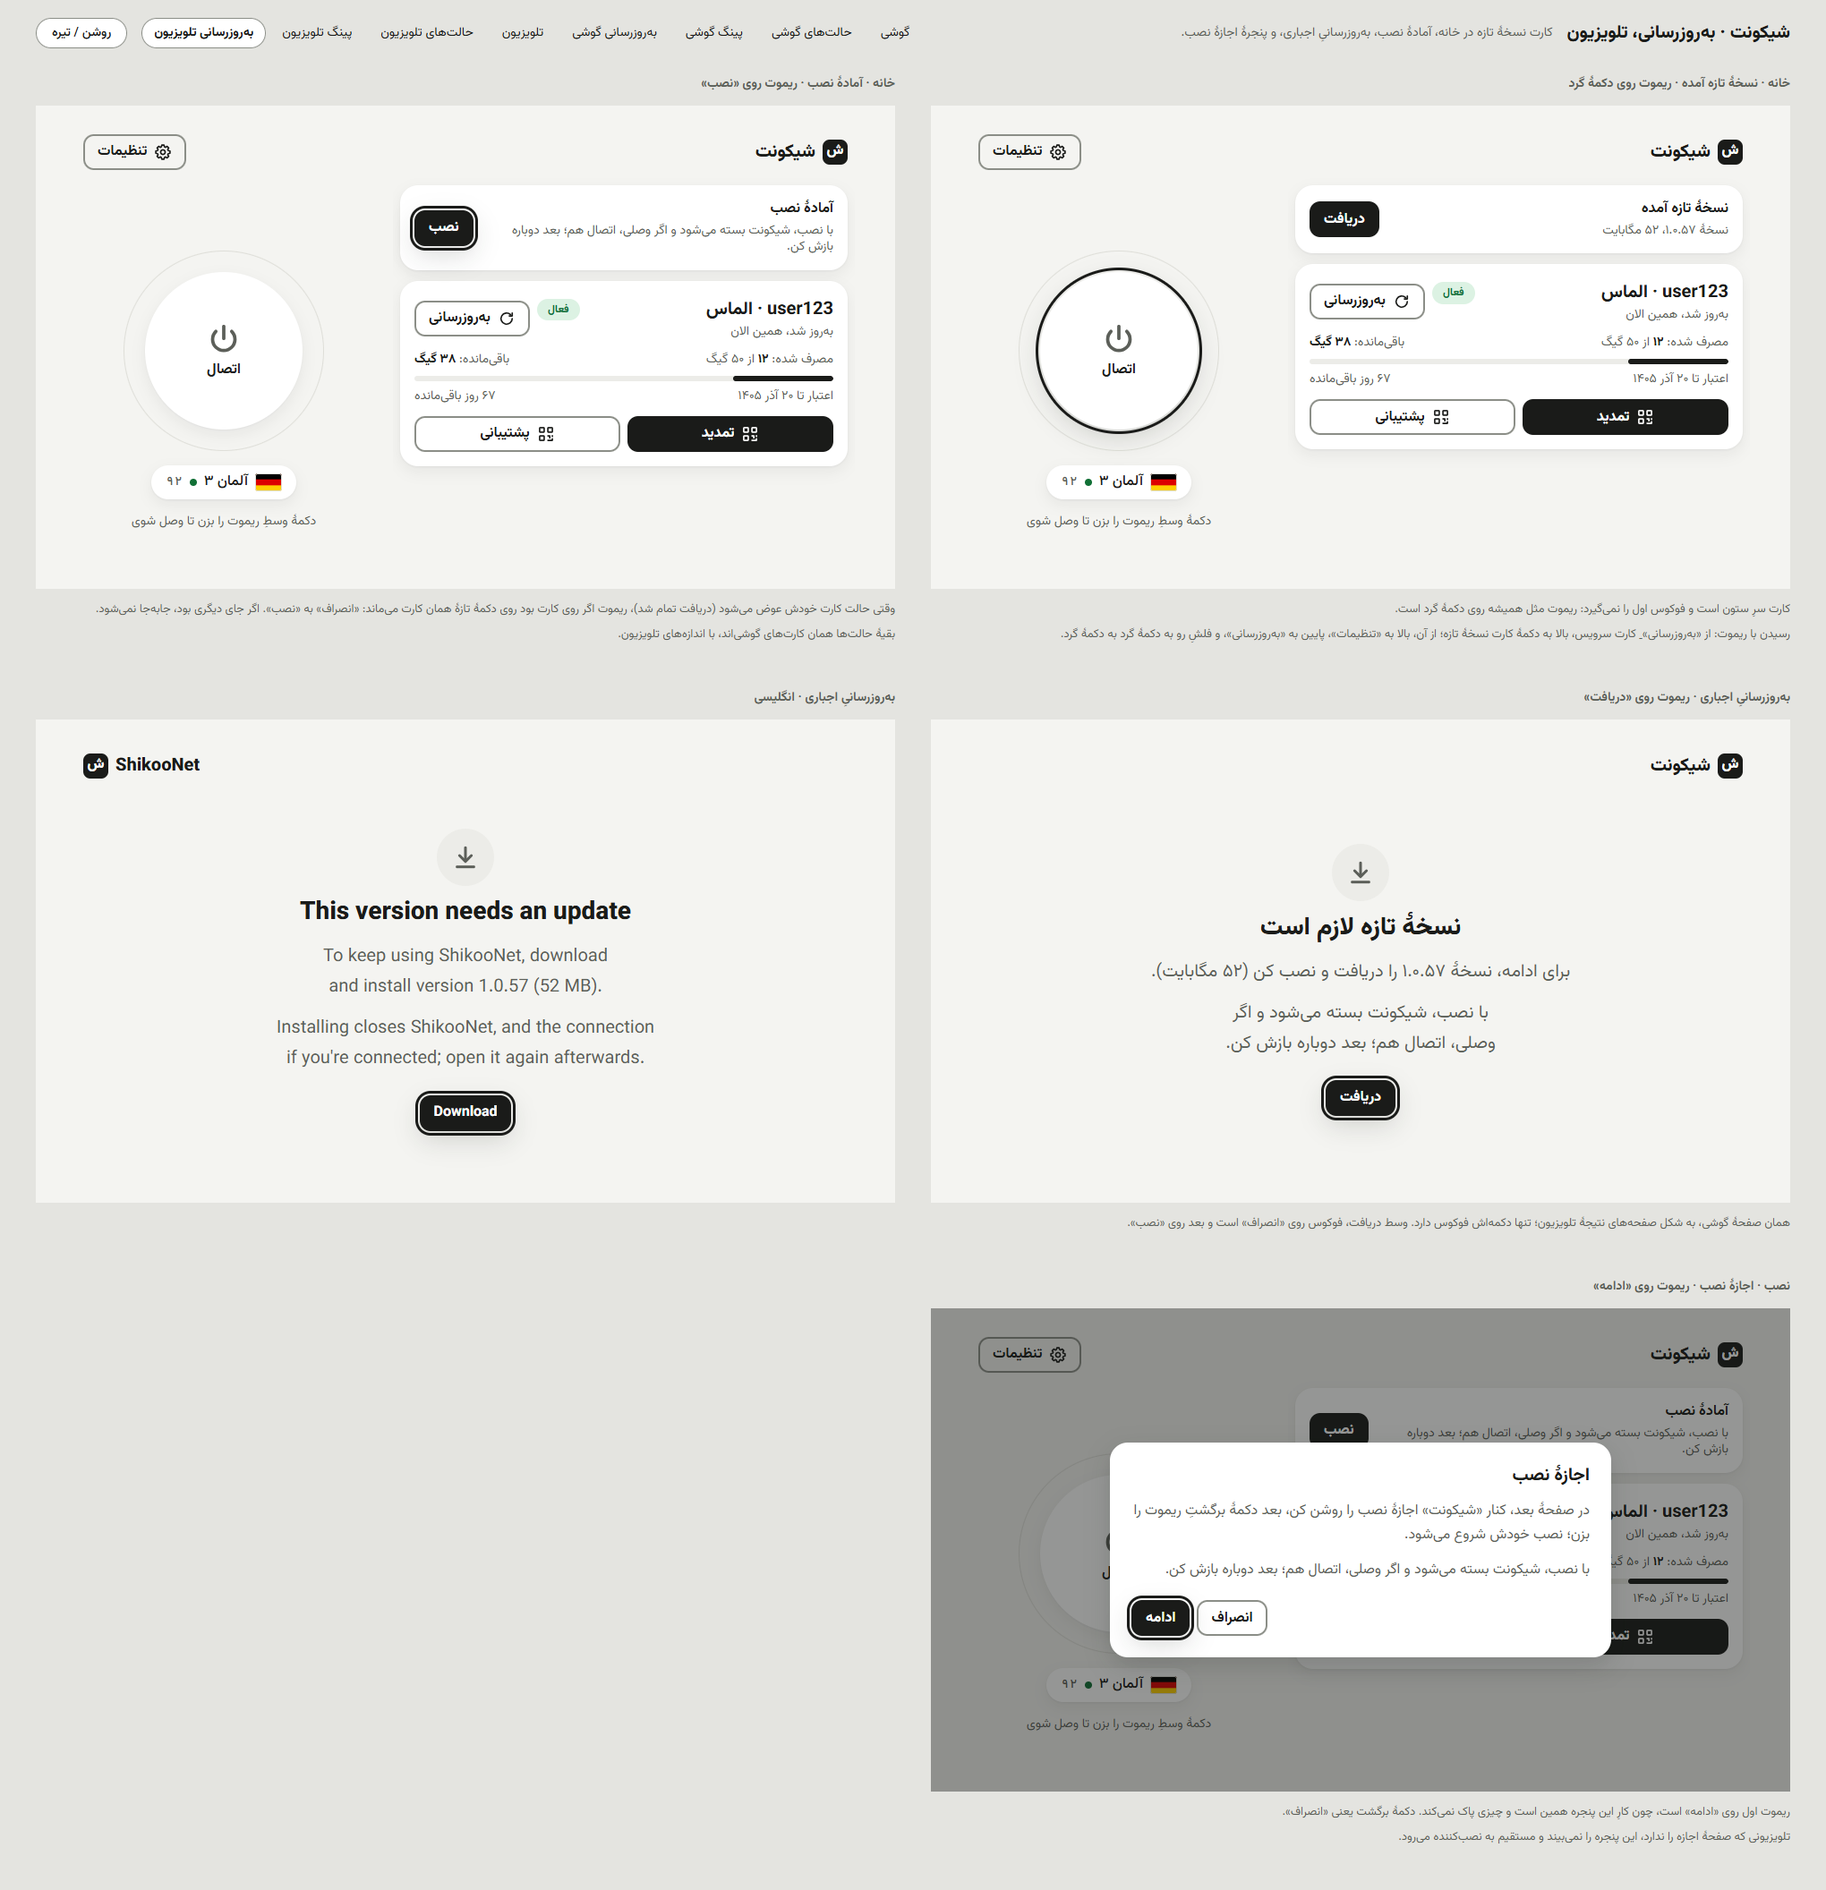
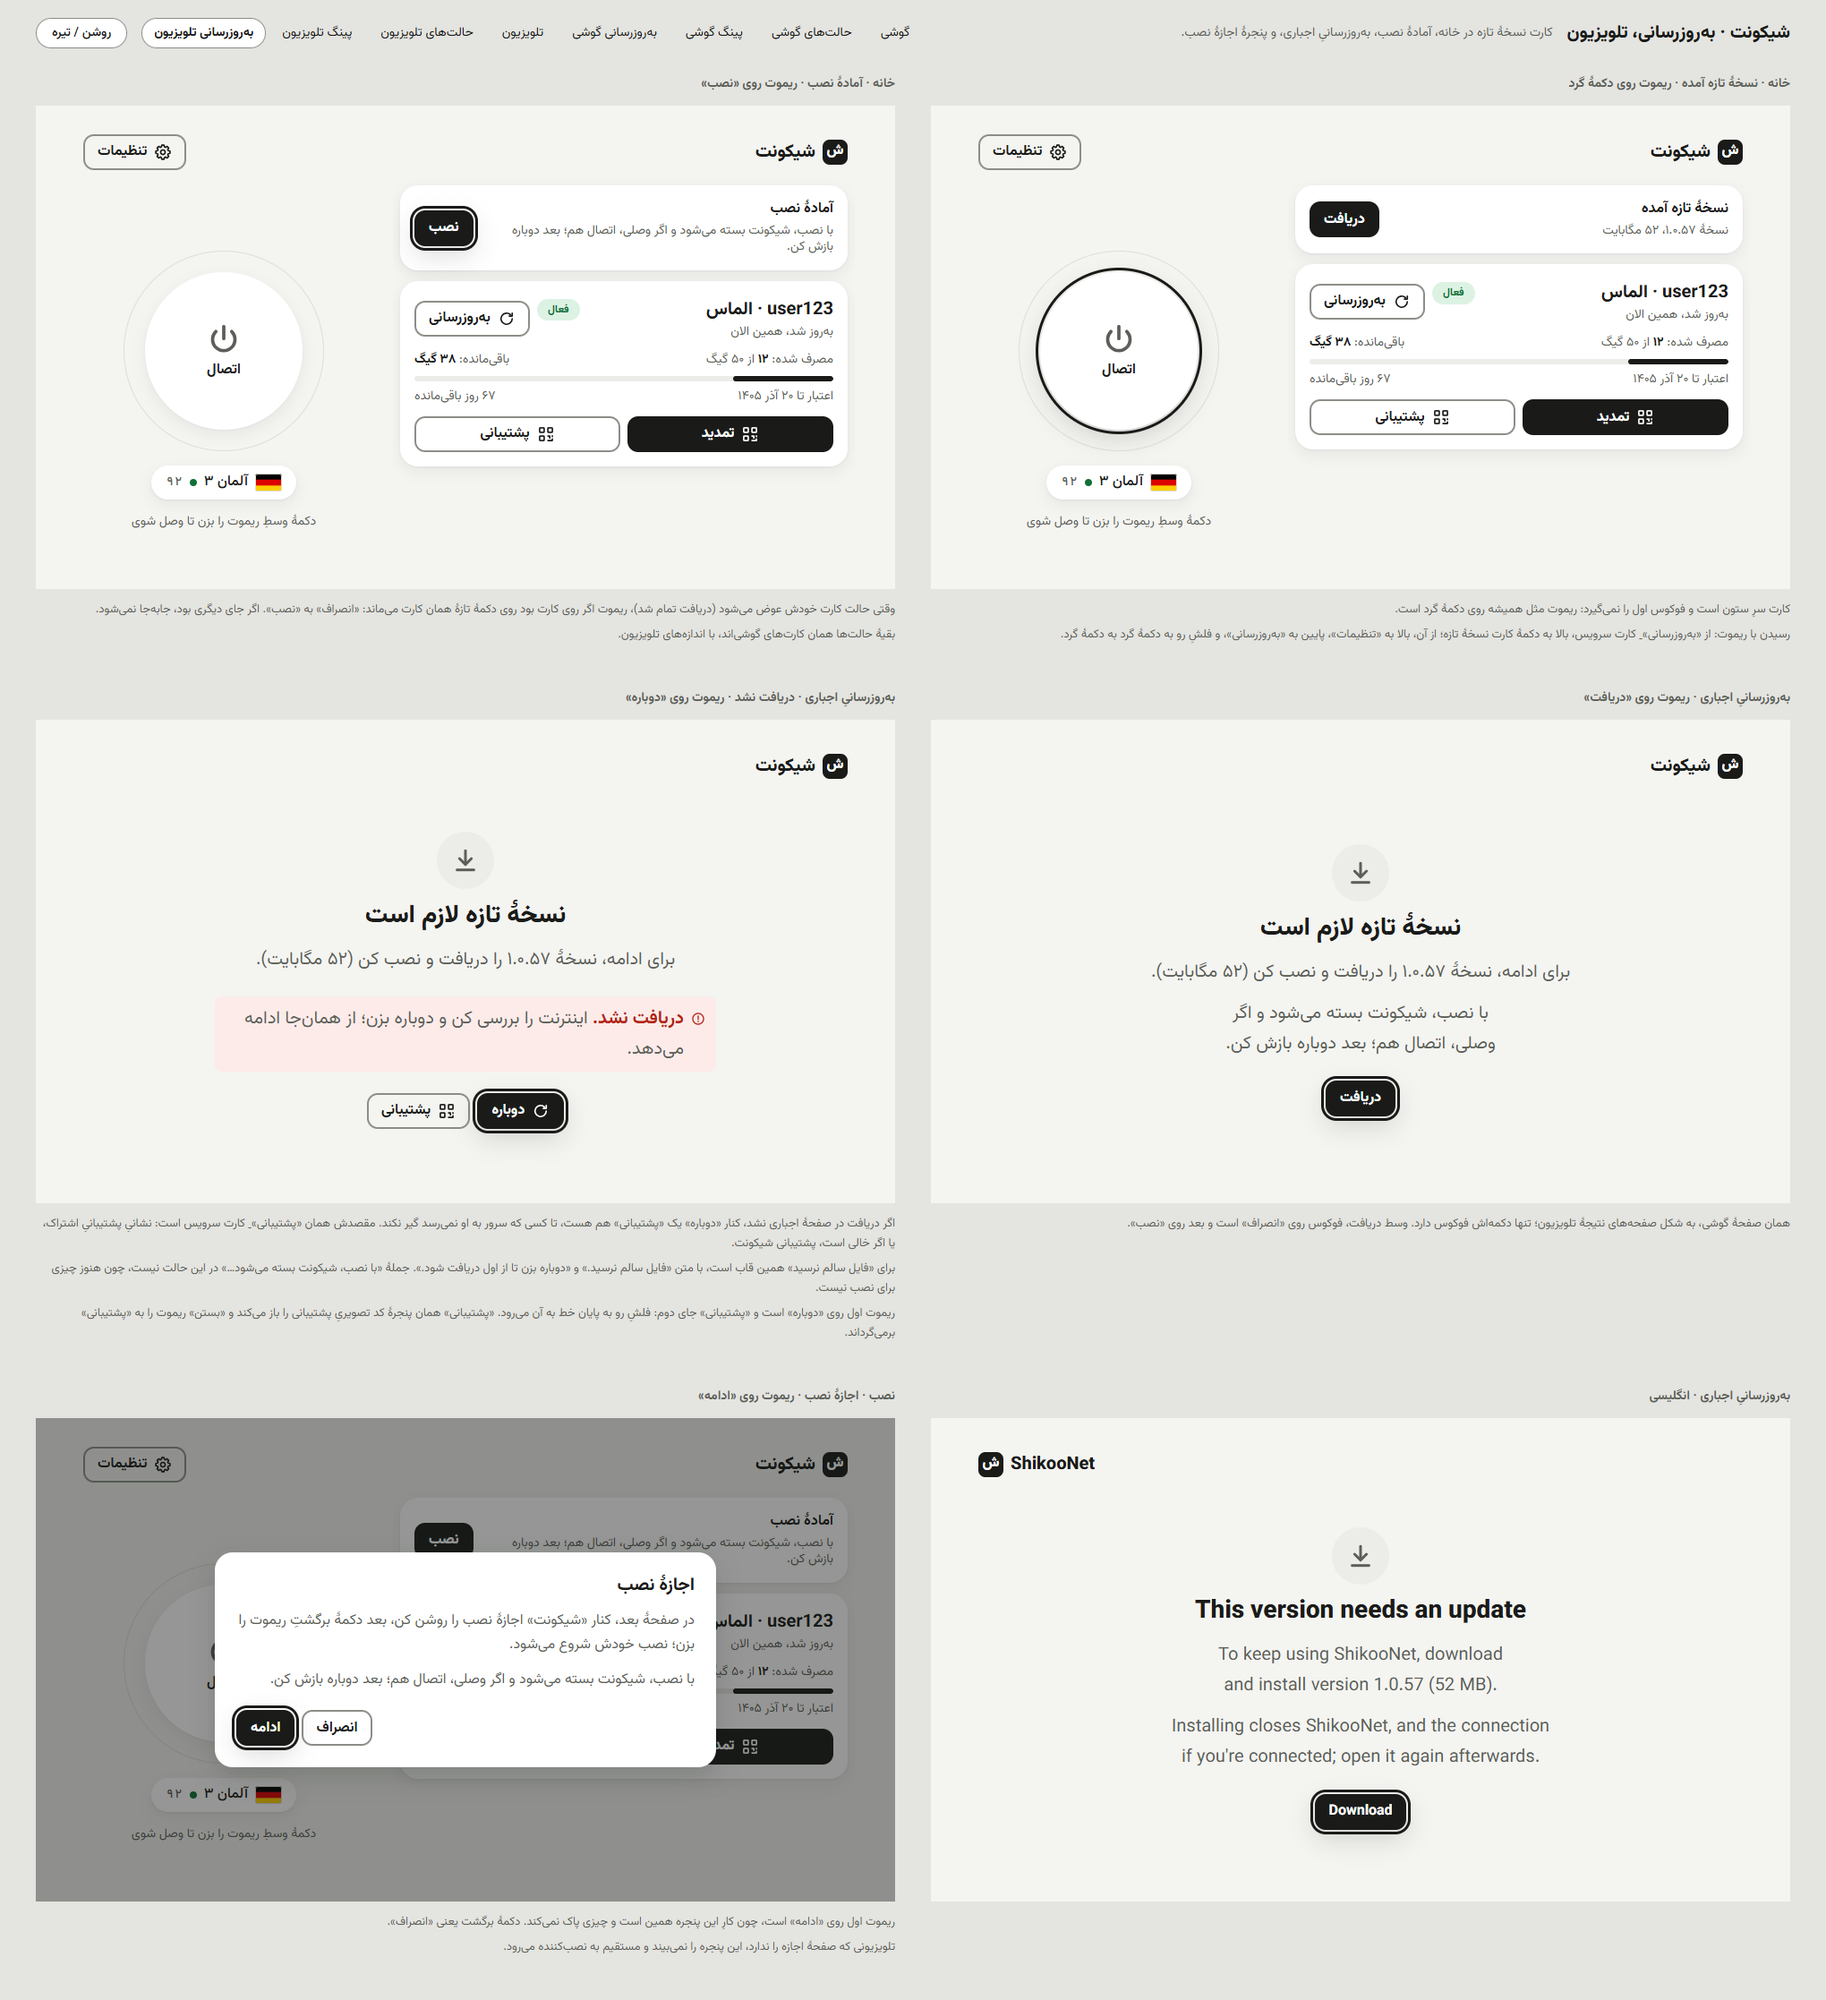
docs(design): add Support to the forced update page when the download fails
A customer who cannot reach the server must not be stuck: the failed
and damaged-file states of the forced page show Support beside Try
again, aimed like every other Support. On TV the remote starts on Try
again and Support opens the existing QR dialog.

diff --git a/design/mockups/tv-update.html b/design/mockups/tv-update.html
@@ -149,6 +149,28 @@
   </figure>
 
   <figure class="shot">
+    <figcaption>بهروزرسانیِ اجباری · دریافت نشد · ریموت روی «دوباره»</figcaption>
+    <div class="tv" data-device="tv" data-frame="tv-update-forced-failed">
+      <header class="tv-top">
+        <div class="brand"><span class="mark">ش</span><span>شیکونت</span></div>
+      </header>
+      <div class="tv-result">
+        <span class="hero-icon muted"><svg class="icon"><use href="#i-download"/></svg></span>
+        <h1>نسخهٔ تازه لازم است</h1>
+        <p>برای ادامه، نسخهٔ ۱.۰.۵۷ را دریافت و نصب کن (۵۲ مگابایت).</p>
+        <p class="notice msg danger" role="alert"><svg class="icon"><use href="#i-alert"/></svg><span><strong>دریافت نشد.</strong> اینترنت را بررسی کن و دوباره بزن؛ از همانجا ادامه میدهد.</span></p>
+        <div class="actions">
+          <button class="btn btn-primary is-focused" type="button"><svg class="icon"><use href="#i-refresh"/></svg>دوباره</button>
+          <button class="btn btn-outline" type="button"><svg class="icon"><use href="#i-qr"/></svg>پشتیبانی</button>
+        </div>
+      </div>
+    </div>
+    <p class="note">اگر دریافت در صفحهٔ اجباری نشد، کنار «دوباره» یک «پشتیبانی» هم هست، تا کسی که سرور به او نمیرسد گیر نکند. مقصدش همان «پشتیبانی» ِ کارت سرویس است: نشانیِ پشتیبانیِ اشتراک، یا اگر خالی است، پشتیبانی شیکونت.</p>
+    <p class="note">برای «فایل سالم نرسید» همین قاب است، با متن «فایل سالم نرسید.» و «دوباره بزن تا از اول دریافت شود.». جملهٔ «با نصب، شیکونت بسته میشود…» در این حالت نیست، چون هنوز چیزی برای نصب نیست.</p>
+    <p class="note">ریموت اول روی «دوباره» است و «پشتیبانی» جای دوم: فلشِ رو به پایان خط به آن میرود. «پشتیبانی» همان پنجرهٔ کد تصویریِ پشتیبانی را باز میکند و «بستن» ریموت را به «پشتیبانی» برمیگرداند.</p>
+  </figure>
+
+  <figure class="shot">
     <figcaption>بهروزرسانیِ اجباری · انگلیسی</figcaption>
     <div class="tv" data-device="tv" dir="ltr" lang="en" data-frame="tv-update-forced-en">
       <header class="tv-top">

diff --git a/design/mockups/phone-update.html b/design/mockups/phone-update.html
@@ -126,6 +126,27 @@
   </figure>
 
   <figure class="shot">
+    <figcaption>بهروزرسانیِ اجباری · دریافت نشد</figcaption>
+    <div class="phone" data-frame="phone-update-forced-failed">
+      <div class="statusbar"><span>۱۲:۴۰</span><svg><use href="#sb"/></svg></div>
+      <div class="login">
+        <div class="login-brand">
+          <span class="hero-icon muted"><svg class="icon"><use href="#i-download"/></svg></span>
+          <span class="word">نسخهٔ تازه لازم است</span>
+          <span class="sub">برای ادامه، نسخهٔ ۱.۰.۵۷ را دریافت و نصب کن (۵۲ مگابایت).</span>
+        </div>
+        <p class="notice msg danger" role="alert"><svg class="icon"><use href="#i-alert"/></svg><span><strong>دریافت نشد.</strong> اینترنت را بررسی کن و دوباره بزن؛ از همانجا ادامه میدهد.</span></p>
+        <button class="btn btn-primary" type="button">دوباره</button>
+        <button class="btn btn-outline" type="button">پشتیبانی</button>
+      </div>
+      <div class="gesture"></div>
+    </div>
+    <p class="note">اگر دریافت در صفحهٔ اجباری نشد، کنار «دوباره» یک «پشتیبانی» هم هست، تا کسی که سرور به او نمیرسد گیر نکند. مقصدش همان «پشتیبانی» ِ کارت سرویس است: نشانیِ پشتیبانیِ اشتراک، یا اگر خالی است، پشتیبانی شیکونت.</p>
+    <p class="note">برای «فایل سالم نرسید» همین قاب است، با متن «فایل سالم نرسید.» و «دوباره بزن تا از اول دریافت شود.». جملهٔ «با نصب، شیکونت بسته میشود…» در این حالت نیست، چون هنوز چیزی برای نصب نیست.</p>
+    <p class="note">روی گوشی «پشتیبانی» گفتگو را مستقیم در تلگرام باز میکند، مثل جاهای دیگر.</p>
+  </figure>
+
+  <figure class="shot">
     <figcaption>نصب · اجازهٔ نصب هنوز داده نشده</figcaption>
     <div class="phone" data-frame="phone-update-permission">
       <div class="statusbar"><span>۱۲:۴۰</span><svg><use href="#sb"/></svg></div>

diff --git a/design/mockups/mockup.css b/design/mockups/mockup.css
@@ -448,6 +448,7 @@ ul { list-style: none; }
 .tv-result h1 { font-size: var(--text-headline); font-weight: var(--font-weight-black); line-height: var(--leading-tight); }
 .tv-result p { max-inline-size: var(--size-dialog); font-size: var(--text-title); line-height: var(--leading-body); color: var(--color-text-muted); }
 .tv-result strong { color: var(--color-text); }
+.tv-result .notice { max-inline-size: var(--size-dialog); text-align: start; text-wrap: wrap; }
 .tv-result p, .login-brand .sub { text-wrap: balance; }
 
 /* تنظیمات و «درباره»ی تلویزیون، و متن پنجرهها درشتتر برای سه متر */
